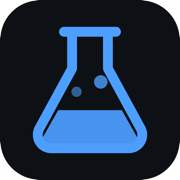
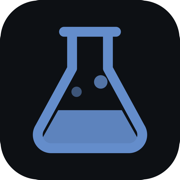
Lab: azul da marca vira #648DCB
A cor entra exatamente como pedida em preenchimento e borda: botao, chip ativo,
foco de campo, e o icone do app.

Onde ela vira TEXTO PEQUENO sobre o fundo, nao dava pra usar direto: #648DCB tem
5,6:1 sobre o fundo escuro, mas so 3,2:1 sobre o claro - suficiente pra borda,
fraco pra ler. Entao nasceu --acao-txt, um tom fechado (#3F6BA8, 5,1:1) usado so
na aba ativa, no "✓ hook", na proporcao da regua e afins. No tema escuro ele e
levemente clareado (#8FB0E0) pelo mesmo motivo, ao contrario.

Pela mesma conta, o texto EM CIMA do preenchimento passou a ser escuro em vez de
branco: 5,5:1 contra 3,4:1. #648DCB e um azul de meio-tom, entao ele pede texto
escuro nos dois temas.

Icones do PWA regerados na cor nova.

Changed region(s): [[0.1667, 0.1389, 0.8333, 0.8611]]

diff --git a/app/web/lab/static/css/lab.css b/app/web/lab/static/css/lab.css
@@ -138,7 +138,7 @@
   border: 1px solid var(--linha); border-radius: 99px; padding: 9px 13px;
   background: var(--superficie2); white-space: nowrap;
 }
-.bt-filtros.tem { color: var(--acao); border-color: var(--acao); }
+.bt-filtros.tem { color: var(--acao-txt); border-color: var(--acao); }
 .bt-filtros .conta-f {
   background: var(--acao); color: var(--sobre-acao); border-radius: 99px;
   font-size: 10.5px; font-weight: 800; padding: 1px 6px; line-height: 1.5;
@@ -168,7 +168,7 @@
   font-size: 10.5px; font-weight: 700; color: var(--texto3);
   background: var(--fundo); border-radius: 99px; padding: 1px 6px;
 }
-.col-aba.ativa { color: var(--acao); border-color: var(--acao); background: var(--acao-fraca); }
+.col-aba.ativa { color: var(--acao-txt); border-color: var(--acao); background: var(--acao-fraca); }
 .col-aba.ativa .cont { color: var(--sobre-acao); background: var(--acao); }
 
 /* Colunas: no celular, uma por tela com swipe; no Mac, três lado a lado. */
@@ -246,7 +246,7 @@
 .tag-tipo.anuncio { color: var(--regua-amarelo); border-color: color-mix(in srgb, var(--regua-amarelo) 40%, transparent); }
 
 .prog { display: flex; gap: 10px; margin-top: 9px; font-size: 10.5px; color: var(--texto3); }
-.prog span.ok { color: var(--acao); }
+.prog span.ok { color: var(--acao-txt); }
 .prog span.ok::before { content: "✓ "; }
 .prog .anexos { margin-left: auto; }
 
@@ -385,7 +385,7 @@
   display: flex; align-items: center; justify-content: center; gap: 5px;
   min-height: 38px;
 }
-.ed-aba.ativa { color: var(--acao); background: var(--acao-fraca); }
+.ed-aba.ativa { color: var(--acao-txt); background: var(--acao-fraca); }
 .ed-aba .n {
   font-size: 10px; font-weight: 800; background: var(--superficie2);
   color: var(--texto2); border-radius: 99px; padding: 1px 6px;
@@ -404,7 +404,7 @@
 .ed-meta { display: flex; flex-direction: column; gap: 9px; margin: 4px 0 2px; }
 
 .ed-prog { display: flex; gap: 12px; font-size: 11px; color: var(--texto3); margin: 2px 0 4px; }
-.ed-prog span.ok { color: var(--acao); }
+.ed-prog span.ok { color: var(--acao-txt); }
 .ed-prog span.ok::before { content: "✓ "; }
 
 .ed-rot {
@@ -428,7 +428,7 @@
   border: 1px dashed var(--linha); border-radius: var(--raio); margin-top: 8px;
   width: 100%;
 }
-.ed-add:active { color: var(--acao); border-color: var(--acao); }
+.ed-add:active { color: var(--acao-txt); border-color: var(--acao); }
 
 .ed-acoes { margin-top: 18px; }
 .bt-publiquei { width: 100%; padding: 15px; font-size: 15px; }
@@ -452,7 +452,7 @@
 .link-topo { display: flex; align-items: center; gap: 8px; }
 .link-topo .n { font-size: 11px; color: var(--texto3); font-weight: 700; flex: 1; }
 .link-item input { padding: 10px 12px; font-size: 14px; }
-.link-item input.url { color: var(--acao); }
+.link-item input.url { color: var(--acao-txt); }
 .link-abrir {
   font-size: 12px; color: var(--texto2); text-decoration: none;
   border: 1px solid var(--linha); border-radius: 99px; padding: 5px 11px; white-space: nowrap;
@@ -492,7 +492,7 @@
   border-radius: var(--raio); font-size: 13px;
 }
 .jan-rot { color: var(--texto2); }
-.jan-prop { color: var(--acao); font-weight: 700; font-size: 12.5px; text-align: right; }
+.jan-prop { color: var(--acao-txt); font-weight: 700; font-size: 12.5px; text-align: right; }
 .jan-nums { grid-column: 1 / -1; color: var(--texto3); font-size: 12px; }
 
 .tabela { width: 100%; border-collapse: collapse; font-size: 12.5px; }

diff --git a/app/web/lab/static/css/base.css b/app/web/lab/static/css/base.css
@@ -67,20 +67,38 @@ html[data-tema="claro"] {
   --regua-vermelho: #d32f35;
 }
 
-/* --acao-fraca vai escrito à mão em vez de color-mix: é o tom usado em toda aba
+/* Três tokens por combinação, e cada um existe por um motivo:
+
+   --acao       preenchimento e borda (botão, chip ativo, foco).
+   --sobre-acao o texto que vai EM CIMA do preenchimento.
+   --acao-txt   a cor quando a própria ação vira texto pequeno sobre o fundo da
+                página (aba ativa, "✓ hook", proporção da régua).
+
+   O azul #648DCB tem 5,6:1 sobre o fundo escuro, mas só 3,2:1 sobre o claro —
+   bom pra borda, fraco pra texto. Por isso o tema claro usa um tom fechado só
+   em --acao-txt: o preenchimento continua sendo exatamente a cor escolhida, e o
+   texto miúdo ganha contraste. Pelo mesmo motivo o texto sobre o preenchimento
+   é escuro (5,5:1) e não branco (3,4:1).
+
+   --acao-fraca vai escrito à mão em vez de color-mix: é o tom usado em toda aba
    e chip ativo, e se o navegador não entender a função a UI perde o realce
    inteiro. Os demais color-mix desta folha são enfeites que degradam sem dor. */
+
 html[data-tema="escuro"][data-acento="verde"] {
-  --acao: #a3e635; --sobre-acao: #0d1014; --acao-fraca: rgba(163,230,53,.15);
+  --acao: #a3e635; --acao-txt: #a3e635; --sobre-acao: #0d1014;
+  --acao-fraca: rgba(163,230,53,.15);
 }
 html[data-tema="escuro"][data-acento="azul"] {
-  --acao: #4d9fff; --sobre-acao: #071018; --acao-fraca: rgba(77,159,255,.16);
+  --acao: #648dcb; --acao-txt: #8fb0e0; --sobre-acao: #0b1017;
+  --acao-fraca: rgba(100,141,203,.18);
 }
 html[data-tema="claro"][data-acento="verde"] {
-  --acao: #4d7c0f; --sobre-acao: #ffffff; --acao-fraca: rgba(77,124,15,.12);
+  --acao: #4d7c0f; --acao-txt: #4d7c0f; --sobre-acao: #ffffff;
+  --acao-fraca: rgba(77,124,15,.12);
 }
 html[data-tema="claro"][data-acento="azul"] {
-  --acao: #1d6ff2; --sobre-acao: #ffffff; --acao-fraca: rgba(29,111,242,.11);
+  --acao: #648dcb; --acao-txt: #3f6ba8; --sobre-acao: #10141a;
+  --acao-fraca: rgba(100,141,203,.15);
 }
 
 :root {
@@ -190,7 +208,7 @@ input[type=search]::-webkit-search-cancel-button { -webkit-appearance: none; }
 .trilho-aba .ic { font-size: 18px; line-height: 1; }
 .trilho-aba .ic svg { width: 20px; height: 20px; display: block; }
 .trilho-aba:hover { color: var(--texto2); background: var(--superficie2); }
-.trilho-aba.ativa { color: var(--acao); background: var(--acao-fraca); }
+.trilho-aba.ativa { color: var(--acao-txt); background: var(--acao-fraca); }
 .trilho-aba.sair { margin-top: auto; }
 
 .tabbar { display: none; }
@@ -215,7 +233,7 @@ input[type=search]::-webkit-search-cancel-button { -webkit-appearance: none; }
   }
   .tabbar button .ic { display: block; height: 19px; }
   .tabbar button .ic svg { width: 19px; height: 19px; display: block; }
-  .tabbar button.ativa { color: var(--acao); }
+  .tabbar button.ativa { color: var(--acao-txt); }
   .tabbar button.ativa .ic { filter: drop-shadow(0 0 6px color-mix(in srgb, var(--acao) 40%, transparent)); }
 }
 

diff --git a/app/web/lab/static/css/automacoes.css b/app/web/lab/static/css/automacoes.css
@@ -50,7 +50,7 @@
 .auto .ponto.on { background: var(--acao); }
 
 .auto .kw {
-  display: inline-block; font-size: 12px; background: var(--acao-fraca); color: var(--acao);
+  display: inline-block; font-size: 12px; background: var(--acao-fraca); color: var(--acao-txt);
   border-radius: 6px; padding: 2px 8px; margin: 2px 4px 2px 0; font-weight: 600;
 }
 .auto .meta { font-size: 12px; color: var(--texto3); margin-top: 8px; line-height: 1.55; }
@@ -128,7 +128,7 @@
 .auto .cartao .txt { padding: 11px 13px; font-size: 14px; white-space: pre-wrap; word-break: break-word; }
 .auto .cartao .bt-dm {
   border-top: 1px solid var(--linha); padding: 10px; text-align: center;
-  font-size: 14px; font-weight: 600; color: var(--acao);
+  font-size: 14px; font-weight: 600; color: var(--acao-txt);
 }
 .auto .quem { font-size: 11px; color: var(--texto3); margin-left: 4px; }
 .auto .coment { display: grid; gap: 10px; padding: 12px; }

diff --git a/app/lab_web.py b/app/lab_web.py
@@ -26,7 +26,7 @@ router = APIRouter()
 
 # Fonte ÚNICA da versão do front. Bumpar aqui invalida o cache do service worker
 # e o cache-bust de todo CSS/JS de uma vez. É o único lugar a mexer num deploy.
-LAB_VERSAO = "4"
+LAB_VERSAO = "5"
 
 _WEB_DIR = os.path.join(os.path.dirname(__file__), "web")
 _LAB_DIR = os.path.join(_WEB_DIR, "lab")
